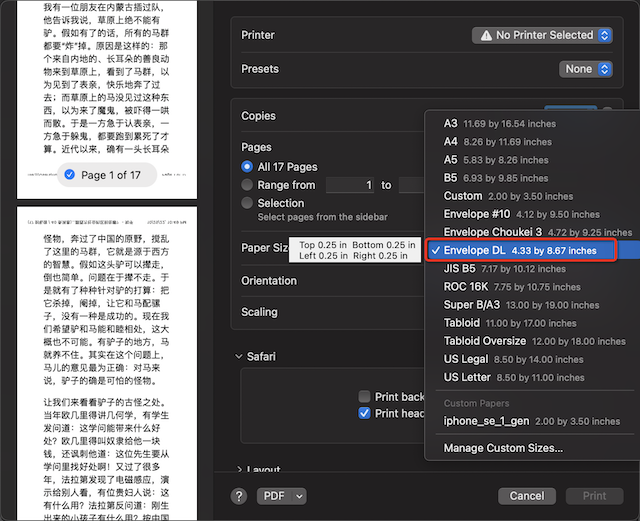
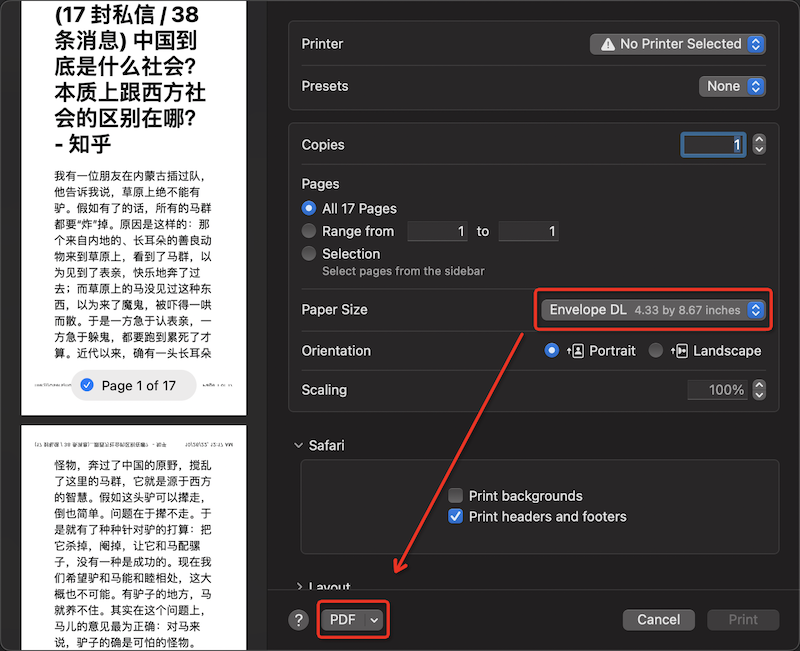
update

diff --git a/source/devops/docs/kindle/save_web_page_as_pdf.rst b/source/devops/docs/kindle/save_web_page_as_pdf.rst
@@ -38,7 +38,13 @@
 今天，偶然发现，其实有一个比较巧妙的方法可以解决，分享如下:
 
 - Safari浏览器支持 ``Reader View`` 方式阅读WEB页面，也就是摈弃掉所有不需要WEB元素，生成一个非常干净的阅读页面，这个页面是可以直接打印保存为 ``pdf`` 文件的
-- 在保存pdf时候，一定要训责打印页面格式: 原来pdf打印是根据目标页面来排版的，实际上选择更适合手机屏幕的纸张格式就可以。经过尝试，我发现 macOS 内置的 ``Envelope DL 4.33 by 8.67 inches`` 就非常适合手机这种屏幕宽度有限的移动设备(应该也适合Kindle)
+- 在保存pdf时候，一定要选择合适的打印页面格式: 原来pdf打印是根据目标页面来排版的，实际上选择更适合手机屏幕的纸张格式就可以。经过尝试，我发现 macOS 内置的 ``Envelope DL 4.33 by 8.67 inches`` 就非常适合手机这种屏幕宽度有限的移动设备(应该也适合Kindle)
+
+.. figure:: ../../../_static/devops/docs/kindle/envelope_print_size.png
+   :scale: 70
+
+   选择Envelope DL纸张格式
+
 - 保存的pdf文件可以使用 :ref:`macos` 操作系统中的 ``Books`` 软件打开，这样就会自动同步到iCloud，所有注册到当前icloud账号的设备会同步接收到这个文件，就可以在所有移动设备上阅读
 - 如果在 iOS 平台的App Store中购买过 ``GoodReader`` pdf专业阅读软件，就可以在 ``Books`` 软件中 ``share`` 给 ``GoodReader`` 软件来阅读: ``GoodReader`` 提供了一个内置的 ``Crop`` 功能，可以把pdf文件所有页面都按照一定的规格进行 **裁边** ，这样就更适合手机阅读了
 
